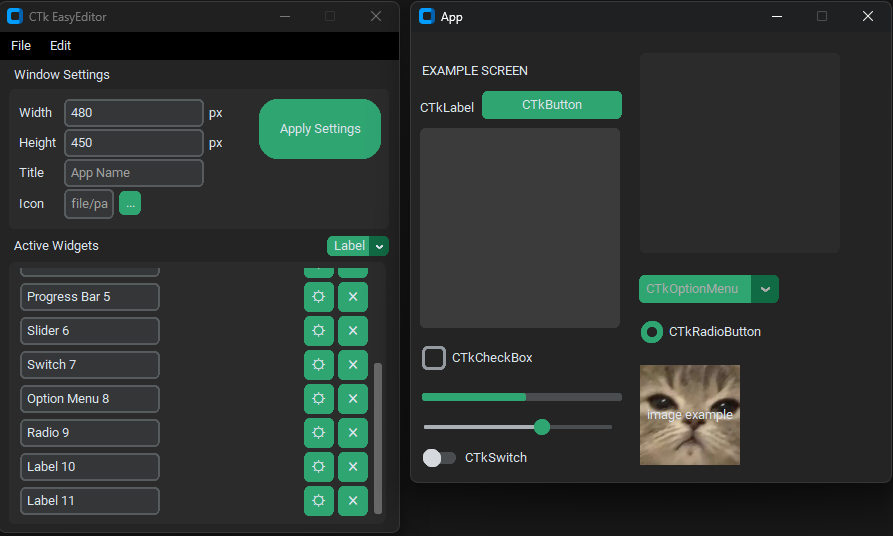
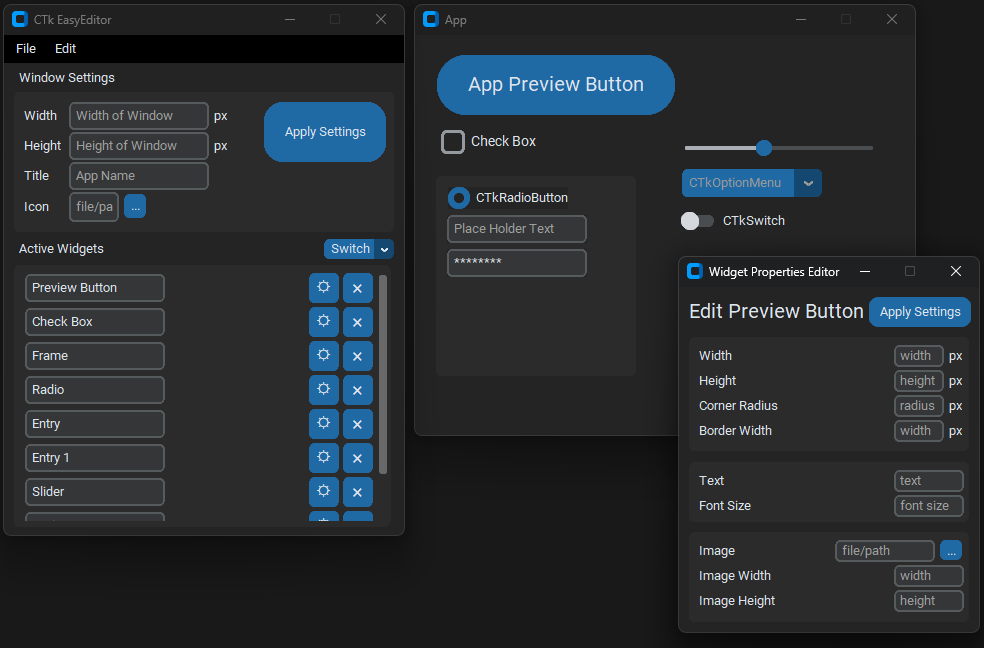
Changed Readme, added screenshot, changed devlog

Changed region(s): [[0.0, 0.0, 1.0, 1.0], [0.9071, 0.0, 0.9373, 0.0299]]

diff --git a/scripts/settingseditor.py b/scripts/settingseditor.py
@@ -9,12 +9,12 @@ class AttributeEditorWindow(ctk.CTkFrame):
     "Label": ["size_adjustments", "image_adjustments","text_adjustments"],
     "Text Box": ["size_adjustments", "text_adjustments"], # uncomplete
     "Check Box": ["size_adjustments", "text_adjustments", "checkbox"],
-    # "Combo Box": ctk.CTkComboBox,
-    # "Entry": ctk.CTkEntry,
-    # "Frame": ctk.CTkFrame,
-    # "Option Menu": ctk.CTkOptionMenu,
-    # "Progress Bar": ctk.CTkProgressBar,
-    # "Radio": ctk.CTkRadioButton,
+    "Combo Box": ["size_adjustments"],
+    "Entry": ["size_adjustments", "placeholder_text"],
+    "Frame": ["size_adjustments"],
+    "Option Menu": ["size_adjustments"],
+    "Progress Bar": ["size_adjustments"],
+    "Radio": ["size_adjustments"],
     # "Scrollable Frame": ctk.CTkScrollableFrame,
     # "Scroll Bar": ctk.CTkScrollbar,
     # "Segment Button": ctk.CTkSegmentedButton,
@@ -48,8 +48,8 @@ class AttributeEditorWindow(ctk.CTkFrame):
         
         if("size_adjustments" in self.attributes_to_edit):
             self.current_y = self.size_y
-            self.size_y += 100
-            self.frame_size_adjustments = ctk.CTkFrame(self.toplevel, width=280, height = 90)
+            self.size_y += 125
+            self.frame_size_adjustments = ctk.CTkFrame(self.toplevel, width=280, height = 115)
             self.frame_size_adjustments.place(x=10, y=self.current_y)
 
             self.label_width = ctk.CTkLabel(self.frame_size_adjustments, text="Width")
@@ -73,9 +73,17 @@ class AttributeEditorWindow(ctk.CTkFrame):
             self.label_height_px = ctk.CTkLabel(self.frame_size_adjustments, text="px")
             self.label_height_px.place(x=260, y=55)
 
+            self.label_border_width = ctk.CTkLabel(self.frame_size_adjustments, text="Border Width")
+            self.label_border_width.place(x=10, y=80)
+            self.entry_border_width = ctk.CTkEntry(self.frame_size_adjustments, placeholder_text="width", width=50, height=10)
+            self.entry_border_width.place(x=205, y=83)
+            self.label_border_width_px = ctk.CTkLabel(self.frame_size_adjustments, text="px")
+            self.label_border_width_px.place(x=260, y=80)
+
             self.property_entries["height"] = {"entry": self.entry_height, "type": int}
             self.property_entries["width"] = {"entry": self.entry_width, "type": int}
             self.property_entries["corner_radius"] = {"entry": self.entry_corner_radius, "type": int}
+            self.property_entries["border_width"] = {"entry": self.entry_border_width, "type": int}
 
         if("text_adjustments" in self.attributes_to_edit):
             self.current_y = self.size_y       # these windows always get added at the bottom
@@ -147,6 +155,25 @@ class AttributeEditorWindow(ctk.CTkFrame):
             self.property_entries["checkbox_width"] = {"entry": self.entry_checkbox_width, "type": int}
             self.property_entries["checkbox_height"] = {"entry": self.entry_checkbox_height, "type": int}
 
+        if("placeholder_text" in self.attributes_to_edit):
+            self.current_y = self.size_y       # these windows always get added at the bottom
+            self.size_y += 70
+            self.frame_placeholder_text = ctk.CTkFrame(self.toplevel, width=280, height = 60)
+            self.frame_placeholder_text.place(x=10, y=self.current_y)
+
+            self.label_placeholder_text = ctk.CTkLabel(self.frame_placeholder_text, text="Placeholder Text")
+            self.label_placeholder_text.place(x=10, y=5)
+            self.entry_placeholder_text = ctk.CTkEntry(self.frame_placeholder_text, placeholder_text="text", width=70, height=10)
+            self.entry_placeholder_text.place(x=205, y=8)
+
+            self.label_hidetext = ctk.CTkLabel(self.frame_placeholder_text, text="Hide inputs (*)")
+            self.label_hidetext.place(x=10, y=30)
+            self.checkbox_hidetext = ctk.CTkCheckBox(self.frame_placeholder_text,text=" ", width=70, height=10, onvalue='*', offvalue='')
+            self.checkbox_hidetext.place(x=250, y=33)
+
+            self.property_entries["placeholder_text"] = {"entry": self.entry_placeholder_text, "type": str}
+            self.property_entries["show"] = {"entry": self.checkbox_hidetext, "type": str}
+
         editor_size,editor_offset_x, editor_offset_y = self.master.geometry().split("+")
         _, editor_size_y = editor_size.split("x")
         self.toplevel.geometry(f"{self.size_x}x{self.size_y}+{int(editor_offset_x)}+{int(editor_offset_y) + int(editor_size_y) + 40}")    # ensures the window always gets created below to the editor
@@ -163,7 +190,7 @@ class AttributeEditorWindow(ctk.CTkFrame):
                     value = info["entry"].get().strip()
                 if info["type"] == int and value.isdigit():
                     kwargs[prop] = int(value)
-                elif info["type"] == str and value:
+                elif info["type"] == str and value or prop=="show":
                     kwargs[prop] = str(value)
                 elif info["type"] == tuple and value[0] and value[1]:
                     kwargs[prop] = (str(value[0]), int(value[1]))

diff --git a/scripts/main.py b/scripts/main.py
@@ -179,7 +179,7 @@ def change_widget_id(widget, id):
             widget["widget_id"] = id
 
 ctk.set_appearance_mode("dark")
-ctk.set_default_color_theme("green")
+ctk.set_default_color_theme("blue")
 
 editor_window = ctk.CTk()
 editor_window.geometry("400x500")

diff --git a/README.md b/README.md
@@ -9,9 +9,9 @@ An easy GUI editor for CustomTKinter in Python
 To install and run:
 
 ```
-git clone https://github.com/coding-beagle/ctkeasyeditor.git
-pip install -r requirements.txt
-python main.py
+$ git clone https://github.com/coding-beagle/ctkeasyeditor.git
+$ pip install -r requirements.txt
+$ python main.py
 ```
 
 Currently this is just the skeleton and I am experimenting with the design of different elements.
@@ -20,13 +20,12 @@ Right now it seems to work okay, and the current implementation includes:
 - Easy Application Window Settings Management
 - Easy Active Widgets manager
 - Drag, and (limited) snapping capability on added widgets
-- The groundwork for adding all of the editing functionality (only button and label widgets are implemented currently)
-- A very barebones export
+- The groundwork for adding all of the editing functionality (only some widgets implemented)
+- A very barebones export (only export as procedural file is implemented)
 
 To be implemented soon:
 
-- A way to edit the configuration of widgets on the go
 - Some basic theme management
-- Increase User-Friendliness
+- Improve user-friendliness, e.g. Undos, Save Projects, Etc
 
 Yes, the UI looks bad right now. Yes, I will rework it using this tool when I make a version of it that works adequately.

diff --git a/devlog.md b/devlog.md
@@ -51,3 +51,28 @@ Completed:
 - Added widget creation functionality
 - Added export to .py for basic root boilerplate
 - Started with widget editing functionality
+
+**26-01-2024**
+
+Big progress day, uni exams are done
+
+Todo:
+
+- Continue adding the editing menus for each widget (the specific ones are annoying)
+- Add Edit -> Preferences
+- - Preferences should contain things like export type (OOP mode or Procedural, etc),
+- - Also things like what is the ctk library called
+- Add Editor saving system, i.e. File -> save, File -> open etc, (unsure of implementation)
+- Active widget hierarchy adjustments (one fears the thought of touching activewidgethandler.py)
+- Theme editor implementation
+
+Bugs:
+
+- Need to reopen window with all drawn elemnts when it is closed
+- Not a bug, but figure out a way to only import PIL libraries if it is needed, e.g. if there is an image object or something
+
+Completed:
+
+- Added dynamic system for adding widget editing
+- Completed a few of the important widgets
+- Added export to .py (only for procedural)
